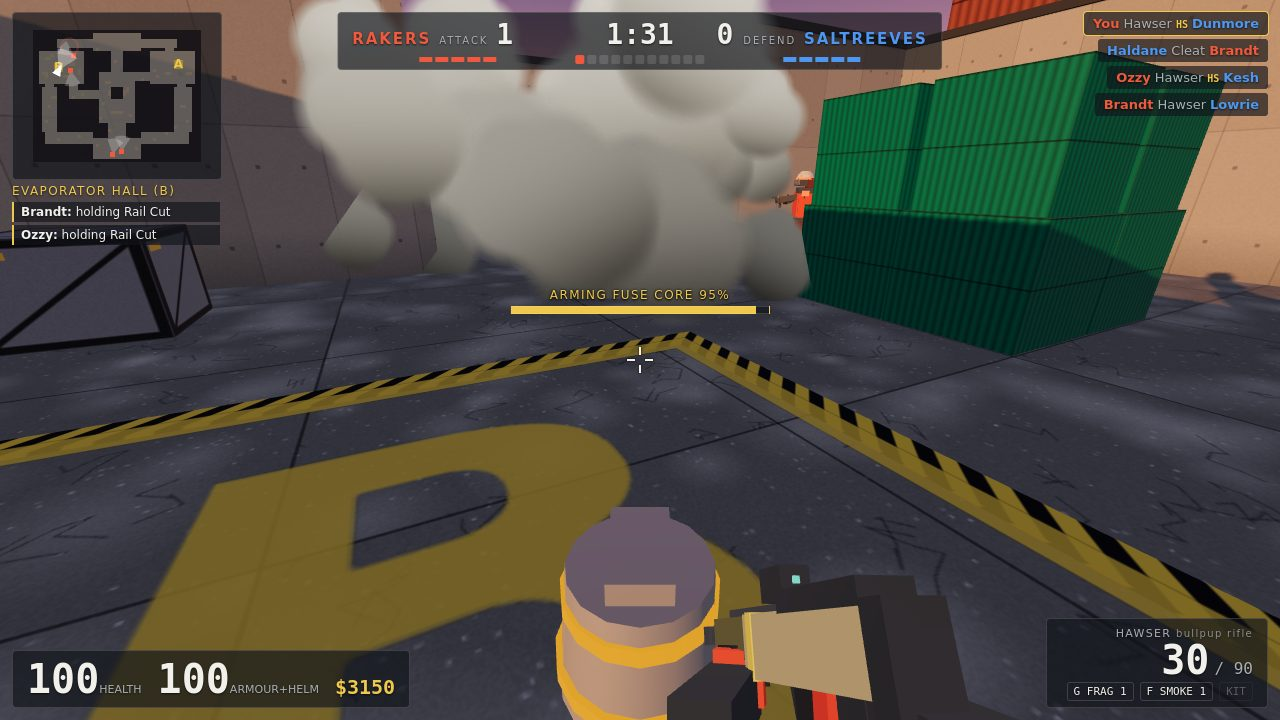
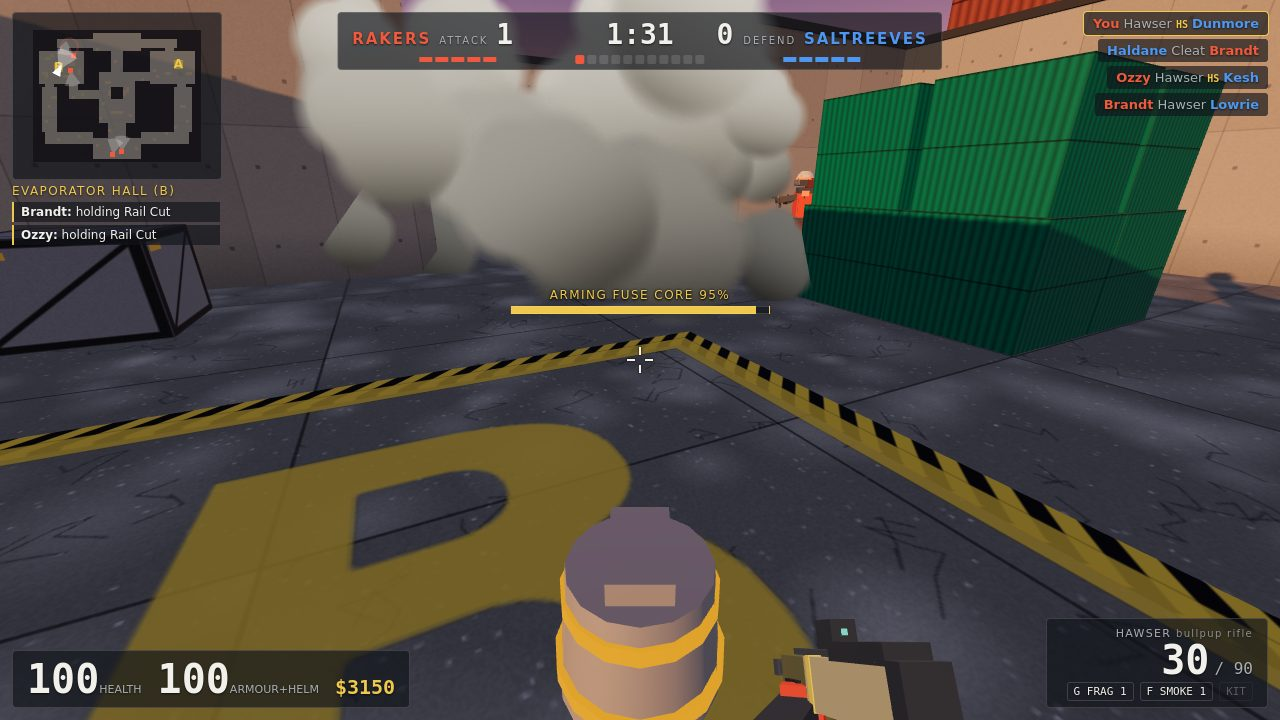
Smaller viewmodel in the lower right; short, thin tracers
- Every gun 20% smaller, pushed right and down, barrel turned only slightly inward: the rifle
  covers about 8% of the frame and stays clear of the crosshair.
- Tracers: 2.5 m streaks at 420 m/s, 1 cm thick, so a 20 m shot is gone in about 55 ms.
- tools/sheet.py: a 2x2 contact sheet of the screenshots for review.
Fresh screenshots.

Changed region(s): [[0.5, 0.7944, 0.75, 1.0], [0.75, 0.9472, 0.7812, 1.0]]

diff --git a/game/src/render/viewmodel.js b/game/src/render/viewmodel.js
@@ -45,7 +45,7 @@ export function createViewModel() {
     const { muzzle, hand, parts } = GUNS[id], group = build(ARMS, MATS, build(parts));
     group.add(build(SUPPORT).translateZ(hand || 0.03).translateX(hand ? 0 : -0.035).translateY(hand ? 0 : -0.03));
     group.visible = false;
-    group.scale.setScalar(0.5);
+    group.scale.setScalar(0.4);
     holder.add(group);
     models[id] = { group, muzzle: new THREE.Vector3(0, ...muzzle) };
   }
@@ -82,11 +82,11 @@ export function createViewModel() {
     const reload = a.reloadTimer > 0 ? Math.sin((1 - a.reloadTimer / def.reload) * Math.PI) : 0;
     const draw = a.drawTimer > 0 ? Math.min(1, a.drawTimer / def.draw) : 0, dip = reload * 0.08 + draw * 0.18 + low * 0.16;
     current.group.position.set(
-      (pistol ? 0.19 : 0.16) + Math.sin(bob) * 0.008 * bobAmt + swayX * 0.25,
-      (pistol ? -0.165 : -0.105) - Math.abs(Math.cos(bob)) * 0.007 * bobAmt - dip - a.crouch * 0.008 - swayY * 0.18,
+      (pistol ? 0.2 : 0.2) + Math.sin(bob) * 0.008 * bobAmt + swayX * 0.25,
+      (pistol ? -0.165 : -0.14) - Math.abs(Math.cos(bob)) * 0.007 * bobAmt - dip - a.crouch * 0.008 - swayY * 0.18,
       (pistol ? -0.34 : -0.5) + kick * 0.02,
     );
-    current.group.rotation.set((pistol ? 0 : 0.05) + kick * 0.07 - reload * 0.6 + draw * 0.9 - low * 0.5, swayX + (pistol ? 0.12 : 0.2), reload * 0.4);
+    current.group.rotation.set((pistol ? 0 : 0.05) + kick * 0.07 - reload * 0.6 + draw * 0.9 - low * 0.5, swayX + (pistol ? 0.1 : 0.08), reload * 0.4);
     flashTime -= dt;
     flash.visible = flashTime > 0;
     flash.scale.setScalar(0.1 + kick * 0.03);

diff --git a/game/src/render/effects.js b/game/src/render/effects.js
@@ -2,7 +2,7 @@
 import * as THREE from 'three';
 import { holeTexture, softDot, glow } from './textures.js';
 
-const TRACERS = 48, DECALS = 160, PARTICLES = 400, FLASHES = 10, TRACER_SPEED = 260, STREAK = 5, NEAR_MISS = 2, CUT_BACK = 2.5, OWN_GAP = 1.5;
+const TRACERS = 48, DECALS = 160, PARTICLES = 400, FLASHES = 10, TRACER_SPEED = 420, STREAK = 2.5, NEAR_MISS = 2, CUT_BACK = 2.5, OWN_GAP = 1.5;
 const HIDE = new THREE.Matrix4().makeScale(0, 0, 0), HOT = new THREE.Color(0xf29e40), PALE = new THREE.Color(0xccb393); // pale at 0.6 (additive)
 
 function instanced(scene, geo, mat, n) {
@@ -100,7 +100,7 @@ export function createEffects(scene) {
       const head = Math.min(t.len, t.t), tail = Math.max(0, t.t - STREAK);
       if (tail >= t.len) { t.live = false; tracerMesh.setMatrixAt(i, HIDE); continue; }
       q.setFromUnitVectors(zAxis, t.dir);
-      mat4.compose(v.copy(t.o).addScaledVector(t.dir, tail), q, s.set(0.014, 0.014, Math.max(0.01, head - tail)));
+      mat4.compose(v.copy(t.o).addScaledVector(t.dir, tail), q, s.set(0.01, 0.01, Math.max(0.01, head - tail)));
       tracerMesh.setMatrixAt(i, mat4);
     }
     tracerMesh.instanceMatrix.needsUpdate = tracerMesh.instanceColor.needsUpdate = true;

diff --git a/tools/sheet.py b/tools/sheet.py
@@ -1,0 +1,10 @@
+# Contact sheet of the four screenshots (2x2 at half size) for a quick look: python3 tools/sheet.py [out.jpg]
+import sys
+from pathlib import Path
+from PIL import Image
+
+shots = sorted(Path(__file__).resolve().parent.parent.joinpath('screenshots').glob('*.jpg'))[:4]
+sheet = Image.new('RGB', (1280, 720))
+for i, path in enumerate(shots):
+    sheet.paste(Image.open(path).resize((640, 360)), ((i % 2) * 640, (i // 2) * 360))
+sheet.save(sys.argv[1] if len(sys.argv) > 1 else '/tmp/sheet.jpg', quality=85)
